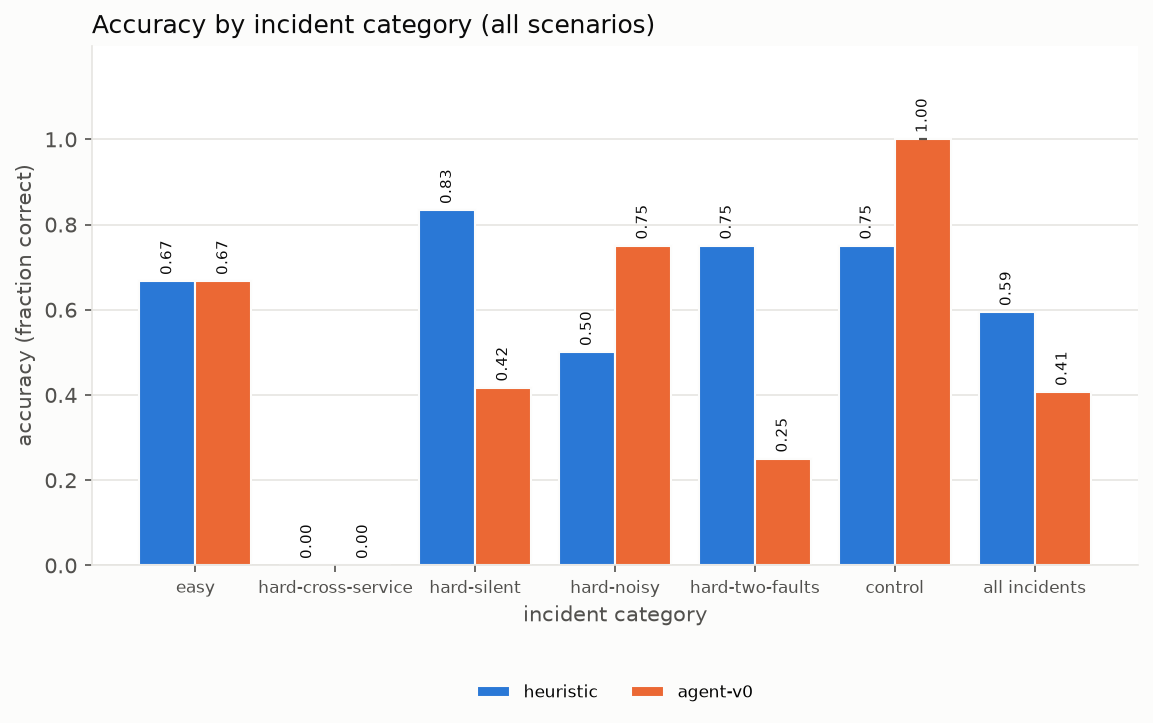
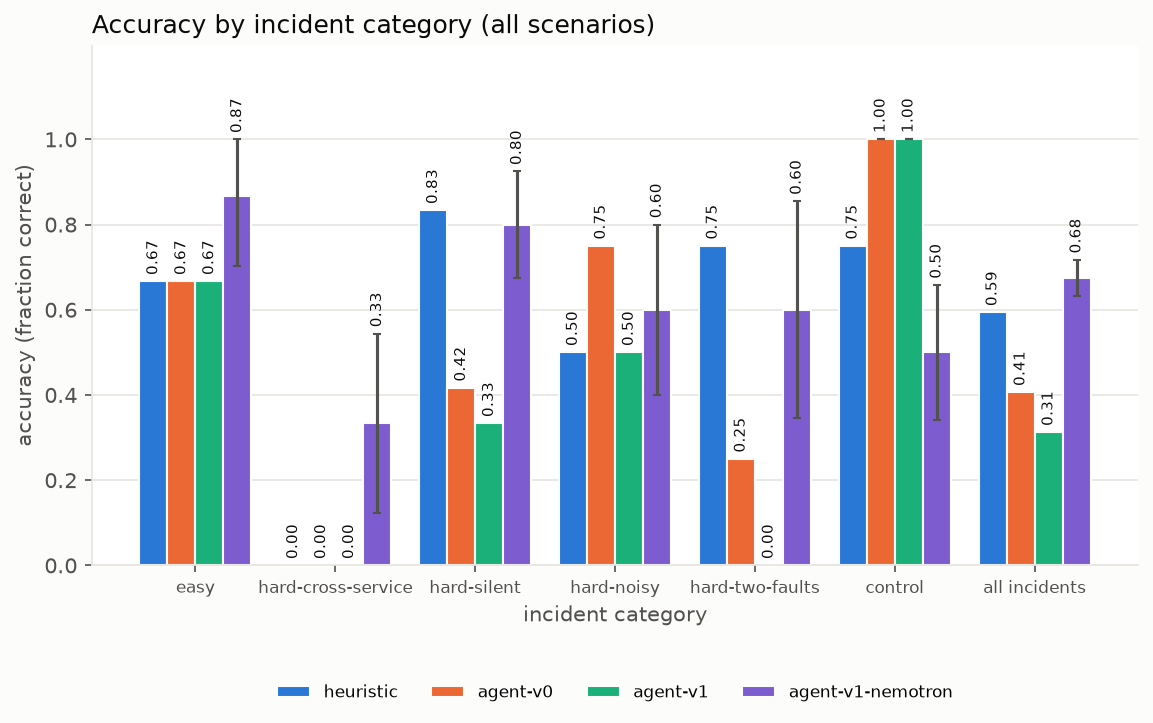
Report: Nemotron vs heuristic pair; regenerated with the complete agent-v1-nemotron batch

diff --git a/rootcause/report.py b/rootcause/report.py
@@ -22,7 +22,8 @@ DISCLOSURE = ("During week-3 development a reviewer viewed v1 tool output on one
 # (a, b): is a better than b? Each is shown only when both have records.
 MIN_PAIRED = 5  # fewer shared incidents than this: no interval
 PAIRS = [("agent-v0", "heuristic"), ("agent-v1", "heuristic"), ("agent-v1", "agent-v0"),
-         ("agent-v1-nopriors", "agent-v1"), ("agent-v1-vague", "agent-v1"), ("agent-v1-nemotron", "agent-v1")]
+         ("agent-v1-nopriors", "agent-v1"), ("agent-v1-vague", "agent-v1"), ("agent-v1-nemotron", "heuristic"),
+         ("agent-v1-nemotron", "agent-v1")]
 FLASH_NOTE = ("A Flash vs Flash-Lite comparison is absent: Flash's free tier allows 20 requests/day and one agent run "
               "takes about 10, so the Gemini agents run on `gemini-3.5-flash-lite` only. The model comparison is instead "
               "agent-v1-nemotron: agent v1 unchanged (prompt, tools, step limit) on `nvidia/nemotron-3-super-120b-a12b` "

diff --git a/docs/results/report.md b/docs/results/report.md
@@ -6,45 +6,51 @@ Accuracy is the mean over scenarios of each scenario's mean; ± is the sd across
 
 ### Split: all
 
-| category | heuristic | agent-v0 | agent-v1 | agent-v1-nopriors | agent-v1-vague |
-|---|---|---|---|---|---|
-| easy | 0.67 ± - (3/3 sc, 1 run) | 0.67 ± - (3/3 sc, 1-2 runs) | not run | not run | not run |
-| hard-cross-service | 0.00 ± - (3/3 sc, 1 run) | 0.00 ± - (3/3 sc, 1-2 runs) | not run | not run | not run |
-| hard-silent | 0.83 ± - (6/6 sc, 1 run) | 0.42 ± - (6/6 sc, 1-2 runs) | not run | not run | not run |
-| hard-noisy | 0.50 ± - (2/2 sc, 1 run) | 0.75 ± - (2/2 sc, 1-2 runs) | not run | not run | not run |
-| hard-two-faults | 0.75 ± - (2/2 sc, 1 run) | 0.25 ± - (2/2 sc, 1-2 runs) | not run | not run | not run |
-| control | 0.75 ± - (4/4 sc, 1 run) | 1.00 ± 0.00 (4/4 sc, 2 runs) | not run | not run | not run |
-| all incidents | 0.59 ± - (16/16 sc, 1 run) | 0.41 ± - (16/16 sc, 1-2 runs) | not run | not run | not run |
+| category | heuristic | agent-v0 | agent-v1 | agent-v1-nopriors | agent-v1-vague | agent-v1-nemotron |
+|---|---|---|---|---|---|---|
+| easy | 0.67 ± - (3/3 sc, 1 run) | 0.67 ± - (3/3 sc, 1-2 runs) | 0.67 ± - (3/3 sc, 1-2 runs) | not run | not run | 0.87 ± 0.16 (3/3 sc, 5 runs) |
+| hard-cross-service | 0.00 ± - (3/3 sc, 1 run) | 0.00 ± - (3/3 sc, 1-2 runs) | 0.00 ± - (3/3 sc, 1 run) | not run | not run | 0.33 ± 0.21 (3/3 sc, 5 runs) |
+| hard-silent | 0.83 ± - (6/6 sc, 1 run) | 0.42 ± - (6/6 sc, 1-2 runs) | 0.33 ± - (6/6 sc, 1-2 runs) | not run | not run | 0.80 ± 0.12 (6/6 sc, 5 runs) |
+| hard-noisy | 0.50 ± - (2/2 sc, 1 run) | 0.75 ± - (2/2 sc, 1-2 runs) | 0.50 ± - (2/2 sc, 1 run) | not run | not run | 0.60 ± 0.20 (2/2 sc, 5 runs) |
+| hard-two-faults | 0.75 ± - (2/2 sc, 1 run) | 0.25 ± - (2/2 sc, 1-2 runs) | 0.00 ± - (2/2 sc, 1-2 runs) | not run | not run | 0.60 ± 0.25 (2/2 sc, 5 runs) |
+| control | 0.75 ± - (4/4 sc, 1 run) | 1.00 ± 0.00 (4/4 sc, 2 runs) | 1.00 ± 0.00 (4/4 sc, 2 runs) | not run | not run | 0.50 ± 0.16 (4/4 sc, 5 runs) |
+| all incidents | 0.59 ± - (16/16 sc, 1 run) | 0.41 ± - (16/16 sc, 1-2 runs) | 0.31 ± - (16/16 sc, 1-2 runs) | not run | not run | 0.68 ± 0.04 (16/16 sc, 5 runs) |
 
 agent-v0: partial batch (1-2 runs per scenario, 32/40 runs)
 
+agent-v1: partial batch (1-2 runs per scenario, 30/40 runs)
+
 ### Split: tune
 
-| category | heuristic | agent-v0 | agent-v1 | agent-v1-nopriors | agent-v1-vague |
-|---|---|---|---|---|---|
-| easy | 1.00 ± - (2/2 sc, 1 run) | 0.50 ± - (2/2 sc, 1-2 runs) | not run | not run | not run |
-| hard-cross-service | 0.00 ± - (2/2 sc, 1 run) | 0.00 ± - (2/2 sc, 1-2 runs) | not run | not run | not run |
-| hard-silent | 0.80 ± - (5/5 sc, 1 run) | 0.50 ± - (5/5 sc, 1-2 runs) | not run | not run | not run |
-| hard-noisy | 0.00 ± - (1/1 sc, 1 run) | 0.50 ± 0.50 (1/1 sc, 2 runs) | not run | not run | not run |
-| hard-two-faults | 0.50 ± - (1/1 sc, 1 run) | 0.00 ± 0.00 (1/1 sc, 2 runs) | not run | not run | not run |
-| control | 0.67 ± - (3/3 sc, 1 run) | 1.00 ± 0.00 (3/3 sc, 2 runs) | not run | not run | not run |
-| all incidents | 0.59 ± - (11/11 sc, 1 run) | 0.36 ± - (11/11 sc, 1-2 runs) | not run | not run | not run |
+| category | heuristic | agent-v0 | agent-v1 | agent-v1-nopriors | agent-v1-vague | agent-v1-nemotron |
+|---|---|---|---|---|---|---|
+| easy | 1.00 ± - (2/2 sc, 1 run) | 0.50 ± - (2/2 sc, 1-2 runs) | 1.00 ± - (2/2 sc, 1-2 runs) | not run | not run | 1.00 ± 0.00 (2/2 sc, 5 runs) |
+| hard-cross-service | 0.00 ± - (2/2 sc, 1 run) | 0.00 ± - (2/2 sc, 1-2 runs) | 0.00 ± - (2/2 sc, 1 run) | not run | not run | 0.30 ± 0.24 (2/2 sc, 5 runs) |
+| hard-silent | 0.80 ± - (5/5 sc, 1 run) | 0.50 ± - (5/5 sc, 1-2 runs) | 0.40 ± - (5/5 sc, 1-2 runs) | not run | not run | 0.76 ± 0.15 (5/5 sc, 5 runs) |
+| hard-noisy | 0.00 ± - (1/1 sc, 1 run) | 0.50 ± 0.50 (1/1 sc, 2 runs) | 0.00 ± - (1/1 sc, 1 run) | not run | not run | 0.20 ± 0.40 (1/1 sc, 5 runs) |
+| hard-two-faults | 0.50 ± - (1/1 sc, 1 run) | 0.00 ± 0.00 (1/1 sc, 2 runs) | 0.00 ± 0.00 (1/1 sc, 2 runs) | not run | not run | 0.50 ± 0.32 (1/1 sc, 5 runs) |
+| control | 0.67 ± - (3/3 sc, 1 run) | 1.00 ± 0.00 (3/3 sc, 2 runs) | 1.00 ± 0.00 (3/3 sc, 2 runs) | not run | not run | 0.53 ± 0.16 (3/3 sc, 5 runs) |
+| all incidents | 0.59 ± - (11/11 sc, 1 run) | 0.36 ± - (11/11 sc, 1-2 runs) | 0.36 ± - (11/11 sc, 1-2 runs) | not run | not run | 0.65 ± 0.05 (11/11 sc, 5 runs) |
 
 agent-v0: partial batch (1-2 runs per scenario, 25/28 runs)
 
+agent-v1: partial batch (1-2 runs per scenario, 23/28 runs)
+
 ### Split: heldout
 
-| category | heuristic | agent-v0 | agent-v1 | agent-v1-nopriors | agent-v1-vague |
-|---|---|---|---|---|---|
-| easy | 0.00 ± - (1/1 sc, 1 run) | 1.00 ± - (1/1 sc, 1 run) | not run | not run | not run |
-| hard-cross-service | 0.00 ± - (1/1 sc, 1 run) | 0.00 ± - (1/1 sc, 1 run) | not run | not run | not run |
-| hard-silent | 1.00 ± - (1/1 sc, 1 run) | 0.00 ± - (1/1 sc, 1 run) | not run | not run | not run |
-| hard-noisy | 1.00 ± - (1/1 sc, 1 run) | 1.00 ± - (1/1 sc, 1 run) | not run | not run | not run |
-| hard-two-faults | 1.00 ± - (1/1 sc, 1 run) | 0.50 ± - (1/1 sc, 1 run) | not run | not run | not run |
-| control | 1.00 ± - (1/1 sc, 1 run) | 1.00 ± 0.00 (1/1 sc, 2 runs) | not run | not run | not run |
-| all incidents | 0.60 ± - (5/5 sc, 1 run) | 0.50 ± - (5/5 sc, 1 run) | not run | not run | not run |
+| category | heuristic | agent-v0 | agent-v1 | agent-v1-nopriors | agent-v1-vague | agent-v1-nemotron |
+|---|---|---|---|---|---|---|
+| easy | 0.00 ± - (1/1 sc, 1 run) | 1.00 ± - (1/1 sc, 1 run) | 0.00 ± - (1/1 sc, 1 run) | not run | not run | 0.60 ± 0.49 (1/1 sc, 5 runs) |
+| hard-cross-service | 0.00 ± - (1/1 sc, 1 run) | 0.00 ± - (1/1 sc, 1 run) | 0.00 ± - (1/1 sc, 1 run) | not run | not run | 0.40 ± 0.49 (1/1 sc, 5 runs) |
+| hard-silent | 1.00 ± - (1/1 sc, 1 run) | 0.00 ± - (1/1 sc, 1 run) | 0.00 ± - (1/1 sc, 1 run) | not run | not run | 1.00 ± 0.00 (1/1 sc, 5 runs) |
+| hard-noisy | 1.00 ± - (1/1 sc, 1 run) | 1.00 ± - (1/1 sc, 1 run) | 1.00 ± - (1/1 sc, 1 run) | not run | not run | 1.00 ± 0.00 (1/1 sc, 5 runs) |
+| hard-two-faults | 1.00 ± - (1/1 sc, 1 run) | 0.50 ± - (1/1 sc, 1 run) | 0.00 ± - (1/1 sc, 1 run) | not run | not run | 0.70 ± 0.24 (1/1 sc, 5 runs) |
+| control | 1.00 ± - (1/1 sc, 1 run) | 1.00 ± 0.00 (1/1 sc, 2 runs) | 1.00 ± 0.00 (1/1 sc, 2 runs) | not run | not run | 0.40 ± 0.49 (1/1 sc, 5 runs) |
+| all incidents | 0.60 ± - (5/5 sc, 1 run) | 0.50 ± - (5/5 sc, 1 run) | 0.20 ± - (5/5 sc, 1 run) | not run | not run | 0.74 ± 0.14 (5/5 sc, 5 runs) |
 
 agent-v0: partial batch (1-2 runs per scenario, 7/12 runs)
+
+agent-v1: partial batch (1-2 runs per scenario, 7/12 runs)
 
 Held-out categories have one scenario each; read the all-incidents row.
 
@@ -60,9 +66,10 @@ False alarm = claiming an incident on a control; abstain = insufficient evidence
 |---|---|---|
 | heuristic | 0.25 | 0.00 |
 | agent-v0 | 0.00 | 0.00 |
-| agent-v1 | not run | not run |
+| agent-v1 | 0.00 | 0.00 |
 | agent-v1-nopriors | not run | not run |
 | agent-v1-vague | not run | not run |
+| agent-v1-nemotron | 0.35 | 0.01 |
 
 ## Evidence (all split, incidents)
 
@@ -72,17 +79,26 @@ Grounded = cited evidence exists in the snapshot; distinctive = it also looks an
 |---|---|---|
 | heuristic | 1.00 | 1.00 |
 | agent-v0 | n/a (predates evidence checks) | n/a (predates evidence checks) |
-| agent-v1 | not run | not run |
+| agent-v1 | 1.00 | 0.88 |
 | agent-v1-nopriors | not run | not run |
 | agent-v1-vague | not run | not run |
+| agent-v1-nemotron | 0.98 | 0.89 |
 
 ## Paired comparisons (all split, fault incidents)
 
-Each solver's mean score per incident, compared on the incidents both have run. Wins / ties / losses count incidents where the first solver scored higher / the same / lower. The 95% interval is a bootstrap over incidents (10,000 resamples, fixed seed). With 16 incidents an interval that includes 0 means this benchmark cannot tell the two apart.
+Each solver's mean score per incident, compared on the incidents both have run. Wins / ties / losses count incidents where the first solver scored higher / the same / lower, by any margin. A per-incident mean of 0.5 can mean one of two causes found or half of the runs right. The 95% interval is a percentile bootstrap over incidents (10,000 resamples, fixed seed); at this few incidents it is approximate and somewhat too narrow, and it is not given below 5 shared incidents. An interval that includes 0 means this benchmark cannot tell the two apart.
 
 | comparison | incidents | wins / ties / losses | mean difference | 95% interval |
 |---|---|---|---|---|
-| agent-v0 vs heuristic | 16 | 3 / 6 / 7 | -0.19 | -0.50 to +0.12 |
+| agent-v0 vs heuristic | 16/16 | 3 / 6 / 7 | -0.19 | -0.50 to +0.12 |
+| agent-v1 vs heuristic | 16/16 | 0 / 10 / 6 | -0.28 | -0.50 to -0.09 |
+| agent-v1 vs agent-v0 | 16/16 | 2 / 10 / 4 | -0.09 | -0.34 to +0.12 |
+| agent-v1-nemotron vs heuristic | 16/16 | 5 / 8 / 3 | +0.08 | -0.05 to +0.23 |
+| agent-v1-nemotron vs agent-v1 | 16/16 | 11 / 4 / 1 | +0.36 | +0.21 to +0.52 |
+
+agent-v0: partial batch (1-2 runs per scenario, 32/40 runs)
+
+agent-v1: partial batch (1-2 runs per scenario, 30/40 runs)
 
 ## Cost
 
@@ -92,36 +108,37 @@ The heuristic makes no model calls, so it has no token usage.
 |---|---|---|---|---|---|---|
 | heuristic | 0 / 20 | - | - | - | - | - |
 | agent-v0 | 32 / 32 | 11.50 | 16 | 68442 | 660 | 126356 |
-| agent-v1 | not run | not run | not run | not run | not run | not run |
+| agent-v1 | 30 / 30 | 13.43 | 16 | 70656 | 499 | 133415 |
 | agent-v1-nopriors | not run | not run | not run | not run | not run | not run |
 | agent-v1-vague | not run | not run | not run | not run | not run | not run |
+| agent-v1-nemotron | 100 / 100 | 15.06 | 17 | 94309 | 3761 | 153234 |
 
 ## Per-scenario accuracy
 
 `*` marks held-out scenarios; each cell is the mean over that scenario's runs, with the number of runs.
 
-| scenario | category | heuristic | agent-v0 | agent-v1 | agent-v1-nopriors | agent-v1-vague |
-|---|---|---|---|---|---|---|
-| ad-failure | easy | 1.00 (1 run) | 1.00 (2 runs) | not run | not run | not run |
-| ad-high-cpu | hard-silent | 1.00 (1 run) | 0.00 (2 runs) | not run | not run | not run |
-| checkout-cpu-throttle | hard-silent | 1.00 (1 run) | 1.00 (2 runs) | not run | not run | not run |
-| control-1 | control | 1.00 (1 run) | 1.00 (2 runs) | not run | not run | not run |
-| control-2 | control | 0.00 (1 run) | 1.00 (2 runs) | not run | not run | not run |
-| control-3 | control | 1.00 (1 run) | 1.00 (2 runs) | not run | not run | not run |
-| control-4* | control | 1.00 (1 run) | 1.00 (2 runs) | not run | not run | not run |
-| email-memory-leak | hard-silent | 1.00 (1 run) | 0.00 (2 runs) | not run | not run | not run |
-| image-slow-load-and-ad-high-cpu | hard-two-faults | 0.50 (1 run) | 0.00 (2 runs) | not run | not run | not run |
-| image-slow-load | hard-silent | 1.00 (1 run) | 0.50 (2 runs) | not run | not run | not run |
-| kafka-queue-problems | hard-cross-service | 0.00 (1 run) | 0.00 (2 runs) | not run | not run | not run |
-| lock-contention-with-flood | hard-noisy | 0.00 (1 run) | 0.50 (2 runs) | not run | not run | not run |
-| payment-failure-50 | easy | 1.00 (1 run) | 0.00 (1 run) | not run | not run | not run |
-| payment-failure-and-recommendation-leak* | hard-two-faults | 1.00 (1 run) | 0.50 (1 run) | not run | not run | not run |
-| payment-failure-with-flood* | hard-noisy | 1.00 (1 run) | 1.00 (1 run) | not run | not run | not run |
-| payment-unreachable | hard-cross-service | 0.00 (1 run) | 0.00 (1 run) | not run | not run | not run |
-| product-catalog-failure* | easy | 0.00 (1 run) | 1.00 (1 run) | not run | not run | not run |
-| product-catalog-lock-contention | hard-silent | 0.00 (1 run) | 1.00 (1 run) | not run | not run | not run |
-| recommendation-cache-leak* | hard-silent | 1.00 (1 run) | 0.00 (1 run) | not run | not run | not run |
-| valkey-cart-paused* | hard-cross-service | 0.00 (1 run) | 0.00 (1 run) | not run | not run | not run |
+| scenario | category | heuristic | agent-v0 | agent-v1 | agent-v1-nopriors | agent-v1-vague | agent-v1-nemotron |
+|---|---|---|---|---|---|---|---|
+| ad-failure | easy | 1.00 (1 run) | 1.00 (2 runs) | 1.00 (2 runs) | not run | not run | 1.00 (5 runs) |
+| ad-high-cpu | hard-silent | 1.00 (1 run) | 0.00 (2 runs) | 0.00 (2 runs) | not run | not run | 0.60 (5 runs) |
+| checkout-cpu-throttle | hard-silent | 1.00 (1 run) | 1.00 (2 runs) | 1.00 (2 runs) | not run | not run | 0.80 (5 runs) |
+| control-1 | control | 1.00 (1 run) | 1.00 (2 runs) | 1.00 (2 runs) | not run | not run | 0.80 (5 runs) |
+| control-2 | control | 0.00 (1 run) | 1.00 (2 runs) | 1.00 (2 runs) | not run | not run | 0.00 (5 runs) |
+| control-3 | control | 1.00 (1 run) | 1.00 (2 runs) | 1.00 (2 runs) | not run | not run | 0.80 (5 runs) |
+| control-4* | control | 1.00 (1 run) | 1.00 (2 runs) | 1.00 (2 runs) | not run | not run | 0.40 (5 runs) |
+| email-memory-leak | hard-silent | 1.00 (1 run) | 0.00 (2 runs) | 0.50 (2 runs) | not run | not run | 1.00 (5 runs) |
+| image-slow-load-and-ad-high-cpu | hard-two-faults | 0.50 (1 run) | 0.00 (2 runs) | 0.00 (2 runs) | not run | not run | 0.50 (5 runs) |
+| image-slow-load | hard-silent | 1.00 (1 run) | 0.50 (2 runs) | 0.50 (2 runs) | not run | not run | 1.00 (5 runs) |
+| kafka-queue-problems | hard-cross-service | 0.00 (1 run) | 0.00 (2 runs) | 0.00 (1 run) | not run | not run | 0.00 (5 runs) |
+| lock-contention-with-flood | hard-noisy | 0.00 (1 run) | 0.50 (2 runs) | 0.00 (1 run) | not run | not run | 0.20 (5 runs) |
+| payment-failure-50 | easy | 1.00 (1 run) | 0.00 (1 run) | 1.00 (1 run) | not run | not run | 1.00 (5 runs) |
+| payment-failure-and-recommendation-leak* | hard-two-faults | 1.00 (1 run) | 0.50 (1 run) | 0.00 (1 run) | not run | not run | 0.70 (5 runs) |
+| payment-failure-with-flood* | hard-noisy | 1.00 (1 run) | 1.00 (1 run) | 1.00 (1 run) | not run | not run | 1.00 (5 runs) |
+| payment-unreachable | hard-cross-service | 0.00 (1 run) | 0.00 (1 run) | 0.00 (1 run) | not run | not run | 0.60 (5 runs) |
+| product-catalog-failure* | easy | 0.00 (1 run) | 1.00 (1 run) | 0.00 (1 run) | not run | not run | 0.60 (5 runs) |
+| product-catalog-lock-contention | hard-silent | 0.00 (1 run) | 1.00 (1 run) | 0.00 (1 run) | not run | not run | 0.40 (5 runs) |
+| recommendation-cache-leak* | hard-silent | 1.00 (1 run) | 0.00 (1 run) | 0.00 (1 run) | not run | not run | 1.00 (5 runs) |
+| valkey-cart-paused* | hard-cross-service | 0.00 (1 run) | 0.00 (1 run) | 0.00 (1 run) | not run | not run | 0.40 (5 runs) |
 
 ## Accuracy vs coverage (all split, record-level)
 
@@ -131,20 +148,25 @@ Coverage is the fraction of all runs whose answer is at or above the confidence 
 
 agent-v0: accuracy 0.71 at 59% coverage (the curve point nearest 50%, confidence >= 0.95). Partial batch (1-2 runs per scenario, 32/40 runs): treat with caution.
 
+agent-v1: accuracy 0.69 at 53% coverage (the curve point nearest 50%, confidence >= 0.95). Partial batch (1-2 runs per scenario, 30/40 runs): treat with caution.
+
+agent-v1-nemotron: accuracy 0.67 at 70% coverage (the curve point nearest 50%, confidence >= 0.90).
+
 ## Provenance
 
 Code versions (git short sha) of the records behind each solver:
 
 - heuristic: e53dd3d
 - agent-v0: 23ebb5e
-- agent-v1: not run
+- agent-v1: 8705d39
 - agent-v1-nopriors: not run
 - agent-v1-vague: not run
+- agent-v1-nemotron: 8b4fefb
 
 During week-3 development a reviewer viewed v1 tool output on one held-out incident (valkey-cart-paused); the incomplete-services list, which no tuning snapshot exercised, was removed before any v1 run; the other changes from that commit (stopped service-map edges, the 'after = 0 can mean the service stopped reporting' caveat) are each exercised by the tuning snapshot payment-unreachable.
 
 ## Not run
 
-Solvers with no recorded runs: agent-v1, agent-v1-nopriors, agent-v1-vague.
+Solvers with no recorded runs: agent-v1-nopriors, agent-v1-vague.
 
-A Flash vs Flash-Lite comparison is absent: Flash's free tier allows 20 requests/day and one agent run takes about 10, so the agent runs on `gemini-3.5-flash-lite` only.
+A Flash vs Flash-Lite comparison is absent: Flash's free tier allows 20 requests/day and one agent run takes about 10, so the Gemini agents run on `gemini-3.5-flash-lite` only. The model comparison is instead agent-v1-nemotron: agent v1 unchanged (prompt, tools, step limit) on `nvidia/nemotron-3-super-120b-a12b` through NVIDIA's free trial endpoint.
